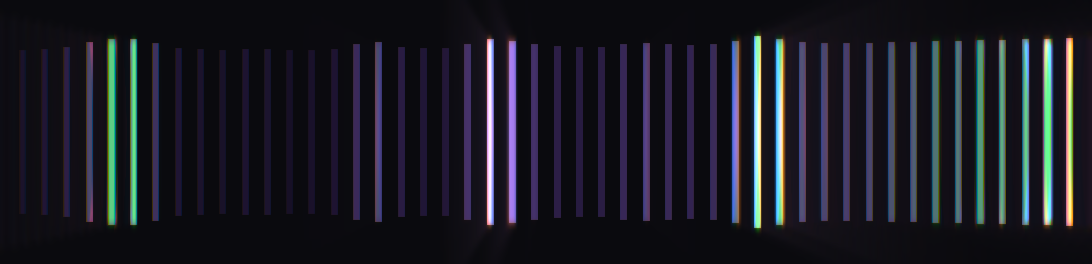
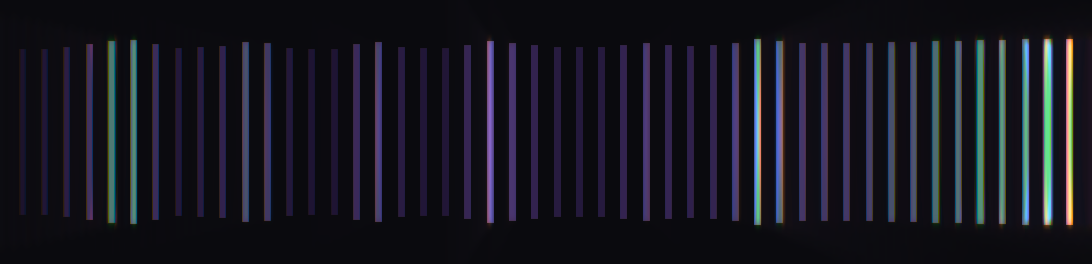
Let the look decide its glow and its width
Glow is per look now, and only the lines arrive with it on.

It was never really a preference. The lines are strokes of light and are barely
worth drawing without it; the bars are objects with edges, and haloing them
turns a legible meter into a smear. One switch for all six meant choosing which
half to spoil, and the bars had been losing. Each look keeps its own settings,
stored under its own key, and switching look re-seeds the glow panel so it is
never showing the previous one's numbers.

The status item is sized by the look rather than by the bar style. Visualiser
gains widthPt(), defaulting to the strip width, and the ring overrides it to
match its height -- so it asks for a square twenty-two points instead of
occupying ninety-one and leaving most of them empty. pixelSize() is derived from
widthPt() rather than restating it, so a buffer and the item it goes into cannot
disagree about how wide the look is; four renderers that had each written out
the same default now inherit it.

The ring itself was reaching far too far. At a base radius of 0.52 with a reach
of 0.40 a loud band nearly doubled it and the circle deformed into a star, which
is a shape, just not this one. The reference is a mostly circular rim with
modest bumps, so the base goes up and the reach comes down. Its body is dark now
rather than saturated: filling with the gradient colour at full strength made
the disc the loudest thing on screen and left the rim looking like trim around
[…]

diff --git a/src/app/App.cpp b/src/app/App.cpp
@@ -57,6 +57,26 @@ std::unique_ptr<Visualiser> App::makeVisualiser(const QString &id)
     return std::make_unique<BarRenderer>();
 }
 
+RenderStyle::Bloom App::defaultBloomFor(const QString &id)
+{
+    RenderStyle::Bloom bloom;
+    if (id == QLatin1String("lines")) {
+        bloom.enabled = true;
+    }
+    return bloom;
+}
+
+QString App::activeVizId() const
+{
+    return m_options.vizStyle.isEmpty() ? m_settings.vizStyle() : m_options.vizStyle;
+}
+
+RenderStyle::Bloom App::bloomFor(const QString &id) const
+{
+    const auto it = m_bloomTuning.constFind(id);
+    return it != m_bloomTuning.constEnd() ? *it : defaultBloomFor(id);
+}
+
 void App::refreshSurface(Surface &surface)
 {
     if (surface.presenter) {
@@ -87,7 +107,7 @@ void App::applyVisualiserTuning(VisualiserControls *origin)
         panel->setLines(m_lineTuning);
         panel->setMirror(m_mirrorTuning);
         panel->setRing(m_ringTuning);
-        panel->setBloom(m_bloomTuning);
+        panel->setBloom(bloomFor(activeVizId()));
     };
     seed(m_hud ? m_hud->controls() : nullptr);
     seed(m_settingsControls);
@@ -104,7 +124,7 @@ void App::connectControls(VisualiserControls *controls)
     controls->setLines(m_lineTuning);
     controls->setMirror(m_mirrorTuning);
     controls->setRing(m_ringTuning);
-    controls->setBloom(m_bloomTuning);
+    controls->setBloom(bloomFor(activeVizId()));
     connect(controls, &VisualiserControls::visualiserRequested, this, [this](const QString &id) {
         m_options.vizStyle = id;
         m_settings.setVizStyle(id);
@@ -117,6 +137,12 @@ void App::connectControls(VisualiserControls *controls)
             m_hud->controls()->setVisualiser(id);
         if (m_settingsControls)
             m_settingsControls->setVisualiser(id);
+        // The glow panel is showing the previous look's settings until told
+        // otherwise, because glow is per look now.
+        if (m_hud && m_hud->controls())
+            m_hud->controls()->setBloom(bloomFor(id));
+        if (m_settingsControls)
+            m_settingsControls->setBloom(bloomFor(id));
     });
     connect(controls, &VisualiserControls::previewScaleRequested, this, [this](qreal scale) {
         m_options.previewScale = scale;
@@ -159,8 +185,9 @@ void App::connectControls(VisualiserControls *controls)
             });
     connect(controls, &VisualiserControls::bloomRequested, this,
             [this, controls](const RenderStyle::Bloom &bloom) {
-                m_bloomTuning = bloom;
-                m_settings.setBloom(bloom);
+                const QString id = activeVizId();
+                m_bloomTuning.insert(id, bloom);
+                m_settings.setBloom(id, bloom);
                 applyVisualiserTuning(controls);
             });
     connect(controls, &VisualiserControls::resetRequested, this, [this] {
@@ -171,7 +198,7 @@ void App::connectControls(VisualiserControls *controls)
         m_lineTuning = defaults.lines;
         m_mirrorTuning = defaults.mirror;
         m_ringTuning = defaults.ring;
-        m_bloomTuning = defaults.bloom;
+        m_bloomTuning.clear();
         applyVisualiserTuning(nullptr);   // a reset must reach every panel
     });
 }
@@ -209,7 +236,11 @@ App::App(Options options, QObject *parent)
     m_lineTuning = m_settings.lines();
     m_mirrorTuning = m_settings.mirror();
     m_ringTuning = m_settings.ring();
-    m_bloomTuning = m_settings.bloom();
+    for (const QString &id : {QStringLiteral("bars"), QStringLiteral("mirror"),
+                              QStringLiteral("lines"), QStringLiteral("ring"),
+                              QStringLiteral("strands"), QStringLiteral("ridge")}) {
+        m_bloomTuning.insert(id, m_settings.bloom(id, defaultBloomFor(id)));
+    }
 
     // The environment variable seeds the tuning rather than being consulted on
     // every restyle, so the HUD's slider can move away from it afterwards
@@ -446,7 +477,7 @@ void App::rebuildStyle(Surface &surface)
     surface.style.lines = m_lineTuning;
     surface.style.mirror = m_mirrorTuning;
     surface.style.ring = m_ringTuning;
-    surface.style.bloom = m_bloomTuning;
+    surface.style.bloom = bloomFor(activeVizId());
 
     if (surface.isNotch) {
         // The panel is the size of the hole in the display, so the strip fits
@@ -526,7 +557,9 @@ void App::onGeometryChanged(Surface &surface)
     surface.heightPt = surface.presenter->heightPt();
     surface.dpr = surface.presenter->devicePixelRatio() * m_options.previewScale;
     rebuildStyle(surface);
-    surface.presenter->setWidthPt(surface.style.stripWidthPt());
+    // The look decides how much menu bar it needs, not the bar style.
+    surface.presenter->setWidthPt(
+        surface.renderer->widthPt(surface.style, surface.heightPt));
     ensureBuffers(surface);
 
     // Draw one frame right now rather than waiting for the clock.
@@ -609,7 +642,8 @@ void App::onFrameDue(Surface &surface)
         target.save(m_options.shotPath);
         qInfo("hyperwave: wrote %s (%dx%d px, %.1f x %.1f pt @ %.0fx)",
               qPrintable(m_options.shotPath), target.width(), target.height(),
-              surface.style.stripWidthPt(), surface.heightPt, surface.dpr);
+              surface.renderer->widthPt(surface.style, surface.heightPt), surface.heightPt,
+              surface.dpr);
         QCoreApplication::quit();
     }
 }

diff --git a/src/app/Settings.cpp b/src/app/Settings.cpp
@@ -192,37 +192,41 @@ void Settings::setRing(const RenderStyle::Ring &r)
     m_store.setValue(QStringLiteral("ring/damping"), r.damping);
     Q_EMIT visualiserParametersChanged();
 }
-RenderStyle::Bloom Settings::bloom() const
+RenderStyle::Bloom Settings::bloom(const QString &vizId,
+                                  const RenderStyle::Bloom &fallback) const
 {
-    const RenderStyle defaults;
-    RenderStyle::Bloom b = defaults.bloom;
-    const auto num = [this](const char *key, qreal fallback) {
-        return m_store.value(QLatin1String(key), fallback).toDouble();
+    RenderStyle::Bloom b = fallback;
+    const QString prefix = QStringLiteral("bloom/") + vizId + QLatin1Char('/');
+    const auto num = [this, &prefix](const char *key, qreal value) {
+        return m_store.value(prefix + QLatin1String(key), value).toDouble();
     };
-    b.enabled = m_store.value(QStringLiteral("bloom/enabled"), b.enabled).toBool();
-    b.threshold = num("bloom/threshold", b.threshold);
-    b.knee = num("bloom/knee", b.knee);
-    b.intensity = num("bloom/intensity", b.intensity);
-    b.radius = num("bloom/radius", b.radius);
-    b.dispersion = num("bloom/dispersion", b.dispersion);
-    b.radialBlur = num("bloom/radialBlur", b.radialBlur);
-    b.rayLength = num("bloom/rayLength", b.rayLength);
-    b.rayDecay = num("bloom/rayDecay", b.rayDecay);
+    b.enabled = m_store.value(prefix + QStringLiteral("enabled"), b.enabled).toBool();
+    b.threshold = num("threshold", b.threshold);
+    b.knee = num("knee", b.knee);
+    b.intensity = num("intensity", b.intensity);
+    b.radius = num("radius", b.radius);
+    b.dispersion = num("dispersion", b.dispersion);
+    b.radialBlur = num("radialBlur", b.radialBlur);
+    b.rayLength = num("rayLength", b.rayLength);
+    b.rayDecay = num("rayDecay", b.rayDecay);
     return b;
 }
-void Settings::setBloom(const RenderStyle::Bloom &b)
+
+void Settings::setBloom(const QString &vizId, const RenderStyle::Bloom &b)
 {
-    m_store.setValue(QStringLiteral("bloom/enabled"), b.enabled);
-    m_store.setValue(QStringLiteral("bloom/threshold"), b.threshold);
-    m_store.setValue(QStringLiteral("bloom/knee"), b.knee);
-    m_store.setValue(QStringLiteral("bloom/intensity"), b.intensity);
-    m_store.setValue(QStringLiteral("bloom/radius"), b.radius);
-    m_store.setValue(QStringLiteral("bloom/dispersion"), b.dispersion);
-    m_store.setValue(QStringLiteral("bloom/radialBlur"), b.radialBlur);
-    m_store.setValue(QStringLiteral("bloom/rayLength"), b.rayLength);
-    m_store.setValue(QStringLiteral("bloom/rayDecay"), b.rayDecay);
+    const QString prefix = QStringLiteral("bloom/") + vizId + QLatin1Char('/');
+    m_store.setValue(prefix + QStringLiteral("enabled"), b.enabled);
+    m_store.setValue(prefix + QStringLiteral("threshold"), b.threshold);
+    m_store.setValue(prefix + QStringLiteral("knee"), b.knee);
+    m_store.setValue(prefix + QStringLiteral("intensity"), b.intensity);
+    m_store.setValue(prefix + QStringLiteral("radius"), b.radius);
+    m_store.setValue(prefix + QStringLiteral("dispersion"), b.dispersion);
+    m_store.setValue(prefix + QStringLiteral("radialBlur"), b.radialBlur);
+    m_store.setValue(prefix + QStringLiteral("rayLength"), b.rayLength);
+    m_store.setValue(prefix + QStringLiteral("rayDecay"), b.rayDecay);
     Q_EMIT visualiserParametersChanged();
 }
+
 // Clears every stored visualiser parameter, so the next read falls through to
 // the defaults rather than to whatever was last saved.
 void Settings::resetVisualiserParameters()

diff --git a/src/render/RenderStyle.h b/src/render/RenderStyle.h
@@ -234,8 +234,8 @@ struct RenderStyle
     struct Ring
     {
         int segments = 180;
-        qreal baseRadius = 0.52;   // fraction of the half-extent at rest
-        qreal reach = 0.40;        // how much further a full-scale band pushes
+        qreal baseRadius = 0.74;   // fraction of the half-extent at rest
+        qreal reach = 0.15;        // how much further a full-scale band pushes
         qreal lineWidthPt = 0.8;
         qreal layerOpacity = 0.9;
         // A circle, not an ellipse. The radius is taken from the shorter side
@@ -251,10 +251,10 @@ struct RenderStyle
         // and split where it bulges. The constant term offsets them everywhere,
         // which is what makes the fringes read as printing out of register
         // rather than as a glow.
-        qreal separation = 0.30;
+        qreal separation = 0.22;
         qreal constantOffset = 0.035;
-        qreal stiffness = 0.22;
-        qreal damping = 0.86;
+        qreal stiffness = 0.18;
+        qreal damping = 0.88;
     };
     Ring ring;
     // --- bloom ---------------------------------------------------------------
@@ -264,7 +264,14 @@ struct RenderStyle
     // whatever the visualiser drew, so every look gets it on the same terms.
     struct Bloom
     {
-        bool enabled = true;
+        // Off by default, and set per look rather than once for the app.
+        //
+        // Glow is not a global preference, it is part of what a look is. The
+        // lines are strokes of light and are barely worth drawing without it;
+        // the bars are objects with edges, and haloing them turns a legible
+        // meter into a smear. One switch for all six meant choosing which half
+        // to spoil.
+        bool enabled = false;
         // What counts as bright enough to glow, measured as luminance on the
         // premultiplied colour, with a soft knee so a line brightening past the
         // threshold fades its glow up rather than switching it on.

diff --git a/src/app/App.h b/src/app/App.h
@@ -3,6 +3,7 @@
 #include <memory>
 #include <vector>
 
+#include <QHash>
 #include <QImage>
 #include <QObject>
 #include <QThread>
@@ -51,6 +52,10 @@ public:
     // The looks, by id. Kept next to Options because the command line, the
     // settings and the menu all have to agree on the same spelling.
     static std::unique_ptr<Visualiser> makeVisualiser(const QString &id);
+
+    // What a look's glow should be before anyone has touched it. Only the lines
+    // arrive with it switched on.
+    static RenderStyle::Bloom defaultBloomFor(const QString &id);
 
     explicit App(Options options, QObject *parent = nullptr);
     ~App() override;
@@ -112,6 +117,8 @@ private:
     // cursor and reselects, and the field stops behaving like a field.
     void applyVisualiserTuning(VisualiserControls *origin);
     void showSettings();
+    QString activeVizId() const;
+    RenderStyle::Bloom bloomFor(const QString &id) const;
 
     void applyFrameRate();
     void setNotchTabVisible(bool visible);
@@ -132,7 +139,9 @@ private:
     RenderStyle::Lines m_lineTuning;
     RenderStyle::Mirror m_mirrorTuning;
     RenderStyle::Ring m_ringTuning;
-    RenderStyle::Bloom m_bloomTuning;
+    // Keyed by visualiser id, because glow belongs to a look and not to the
+    // application. Missing keys fall back to that look's default.
+    QHash<QString, RenderStyle::Bloom> m_bloomTuning;
     // Bloom is a post-process over whatever a look drew, so it lives here
     // rather than inside any renderer. One instance: it holds GPU resources
     // sized to the frame, and every surface is the same size at a time.

diff --git a/src/render/Visualiser.h b/src/render/Visualiser.h
@@ -25,8 +25,26 @@ class Visualiser
 public:
     virtual ~Visualiser() = default;
 
-    // The pixel size this look needs at this style and scale.
-    virtual QSize pixelSize(const RenderStyle &style, qreal heightPt, qreal dpr) const = 0;
+    // How wide this look wants to be, in points.
+    //
+    // The status item is sized from this, so a look that is not a strip does
+    // not have to sit in the middle of one. A ring is as wide as it is tall and
+    // asking for 91 points of menu bar to draw a circle in the middle of would
+    // be taking space to leave it empty.
+    virtual qreal widthPt(const RenderStyle &style, qreal heightPt) const
+    {
+        Q_UNUSED(heightPt);
+        return style.stripWidthPt();
+    }
+
+    // The pixel size this look needs at this style and scale. Derived from
+    // widthPt() rather than restated, so the buffer and the item it goes into
+    // cannot disagree about how wide the look is.
+    virtual QSize pixelSize(const RenderStyle &style, qreal heightPt, qreal dpr) const
+    {
+        return QSize(qMax(1, qRound(widthPt(style, heightPt) * dpr)),
+                     qMax(1, qRound(heightPt * dpr)));
+    }
 
     // `target` must be ARGB32_Premultiplied and already sized to pixelSize().
     // Implementations fill it and must never resize it: on macOS the buffer

diff --git a/src/render/RingRenderer.cpp b/src/render/RingRenderer.cpp
@@ -15,9 +15,11 @@ namespace {
 constexpr qreal kTau = 6.283185307179586;
 }
 
-QSize RingRenderer::pixelSize(const RenderStyle &style, qreal heightPt, qreal dpr) const
+
+qreal RingRenderer::widthPt(const RenderStyle &style, qreal heightPt) const
 {
-    return QSize(std::lround(style.stripWidthPt() * dpr), std::lround(heightPt * dpr));
+    Q_UNUSED(style);
+    return heightPt;
 }
 
 void RingRenderer::reset()
@@ -113,7 +115,11 @@ void RingRenderer::render(const FrameState &state, const RenderStyle &style, qre
         for (int i = 1; i <= segments; ++i)
             path.lineTo(m_points[static_cast<std::size_t>(i)]);
         path.closeSubpath();
-        QColor fill = style.gradientBottom;
+        // A dark body, not a saturated one. The reference is a black disc with
+        // a bright rim, and the rim is what carries the shape; filling with the
+        // gradient colour at full saturation made the disc the loudest thing on
+        // screen and left the outline looking like trim around it.
+        QColor fill = style.gradientBottom.darker(320);
         fill.setAlphaF(std::clamp<qreal>(opacity * r.fillOpacity, 0.0, 1.0));
         p.setPen(Qt::NoPen);
         p.setBrush(fill);

diff --git a/src/app/Settings.h b/src/app/Settings.h
@@ -46,8 +46,10 @@ public:
     void setMirror(const RenderStyle::Mirror &mirror);
     RenderStyle::Ring ring() const;
     void setRing(const RenderStyle::Ring &ring);
-    RenderStyle::Bloom bloom() const;
-    void setBloom(const RenderStyle::Bloom &bloom);
+    // Per visualiser, so each look keeps its own glow. The fallback is passed
+    // in rather than assumed, because the right default differs by look.
+    RenderStyle::Bloom bloom(const QString &vizId, const RenderStyle::Bloom &fallback) const;
+    void setBloom(const QString &vizId, const RenderStyle::Bloom &bloom);
     void resetVisualiserParameters();
 
     // Compact mode narrows the strip and drops the band count. Worth having as

diff --git a/src/render/RingRenderer.h b/src/render/RingRenderer.h
@@ -23,7 +23,12 @@ namespace hyperwave {
 class RingRenderer : public Visualiser
 {
 public:
-    QSize pixelSize(const RenderStyle &style, qreal heightPt, qreal dpr) const override;
+    // Square. The radius comes from the shorter side, so on a strip four times
+    // wider than it is tall the circle would sit in the middle of a lot of
+    // nothing; asking for only the width it uses lets the status item shrink to
+    // fit it.
+    qreal widthPt(const RenderStyle &style, qreal heightPt) const override;
+
     void render(const FrameState &state, const RenderStyle &style, qreal heightPt, qreal dpr,
                 QImage &target) override;
     void reset() override;

diff --git a/src/render/RidgeRenderer.cpp b/src/render/RidgeRenderer.cpp
@@ -34,14 +34,6 @@ float sampleRow(const float *row, int count, float position)
 
 } // namespace
 
-QSize RidgeRenderer::pixelSize(const RenderStyle &style, qreal heightPt, qreal dpr) const
-{
-    // Deliberately the same footprint as the bars. The terrain is a different
-    // look at the same data in the same slot, not a claim on more of the menu
-    // bar, and a look that silently resized the status item would be a look
-    // people turn off.
-    return QSize(std::lround(style.stripWidthPt() * dpr), std::lround(heightPt * dpr));
-}
 
 void RidgeRenderer::reset()
 {

diff --git a/src/render/StrandRenderer.cpp b/src/render/StrandRenderer.cpp
@@ -156,12 +156,6 @@ void StrandRenderer::reset()
     m_impl->clock.restart();
 }
 
-QSize StrandRenderer::pixelSize(const RenderStyle &style, qreal heightPt, qreal dpr) const
-{
-    // Same footprint as every other look: this is a different picture in the
-    // same slot, not a claim on more of the menu bar.
-    return QSize(std::lround(style.stripWidthPt() * dpr), std::lround(heightPt * dpr));
-}
 
 void StrandRenderer::render(const FrameState &state, const RenderStyle &style, qreal heightPt,
                             qreal dpr, QImage &target)

diff --git a/src/render/LineRenderer.cpp b/src/render/LineRenderer.cpp
@@ -9,10 +9,6 @@
 
 namespace hyperwave {
 
-QSize LineRenderer::pixelSize(const RenderStyle &style, qreal heightPt, qreal dpr) const
-{
-    return QSize(std::lround(style.stripWidthPt() * dpr), std::lround(heightPt * dpr));
-}
 
 void LineRenderer::render(const FrameState &state, const RenderStyle &style, qreal heightPt,
                           qreal dpr, QImage &target)

diff --git a/src/render/MirrorRenderer.h b/src/render/MirrorRenderer.h
@@ -20,7 +20,6 @@ namespace hyperwave {
 class MirrorRenderer : public Visualiser
 {
 public:
-    QSize pixelSize(const RenderStyle &style, qreal heightPt, qreal dpr) const override;
     void render(const FrameState &state, const RenderStyle &style, qreal heightPt, qreal dpr,
                 QImage &target) override;
     void reset() override;
